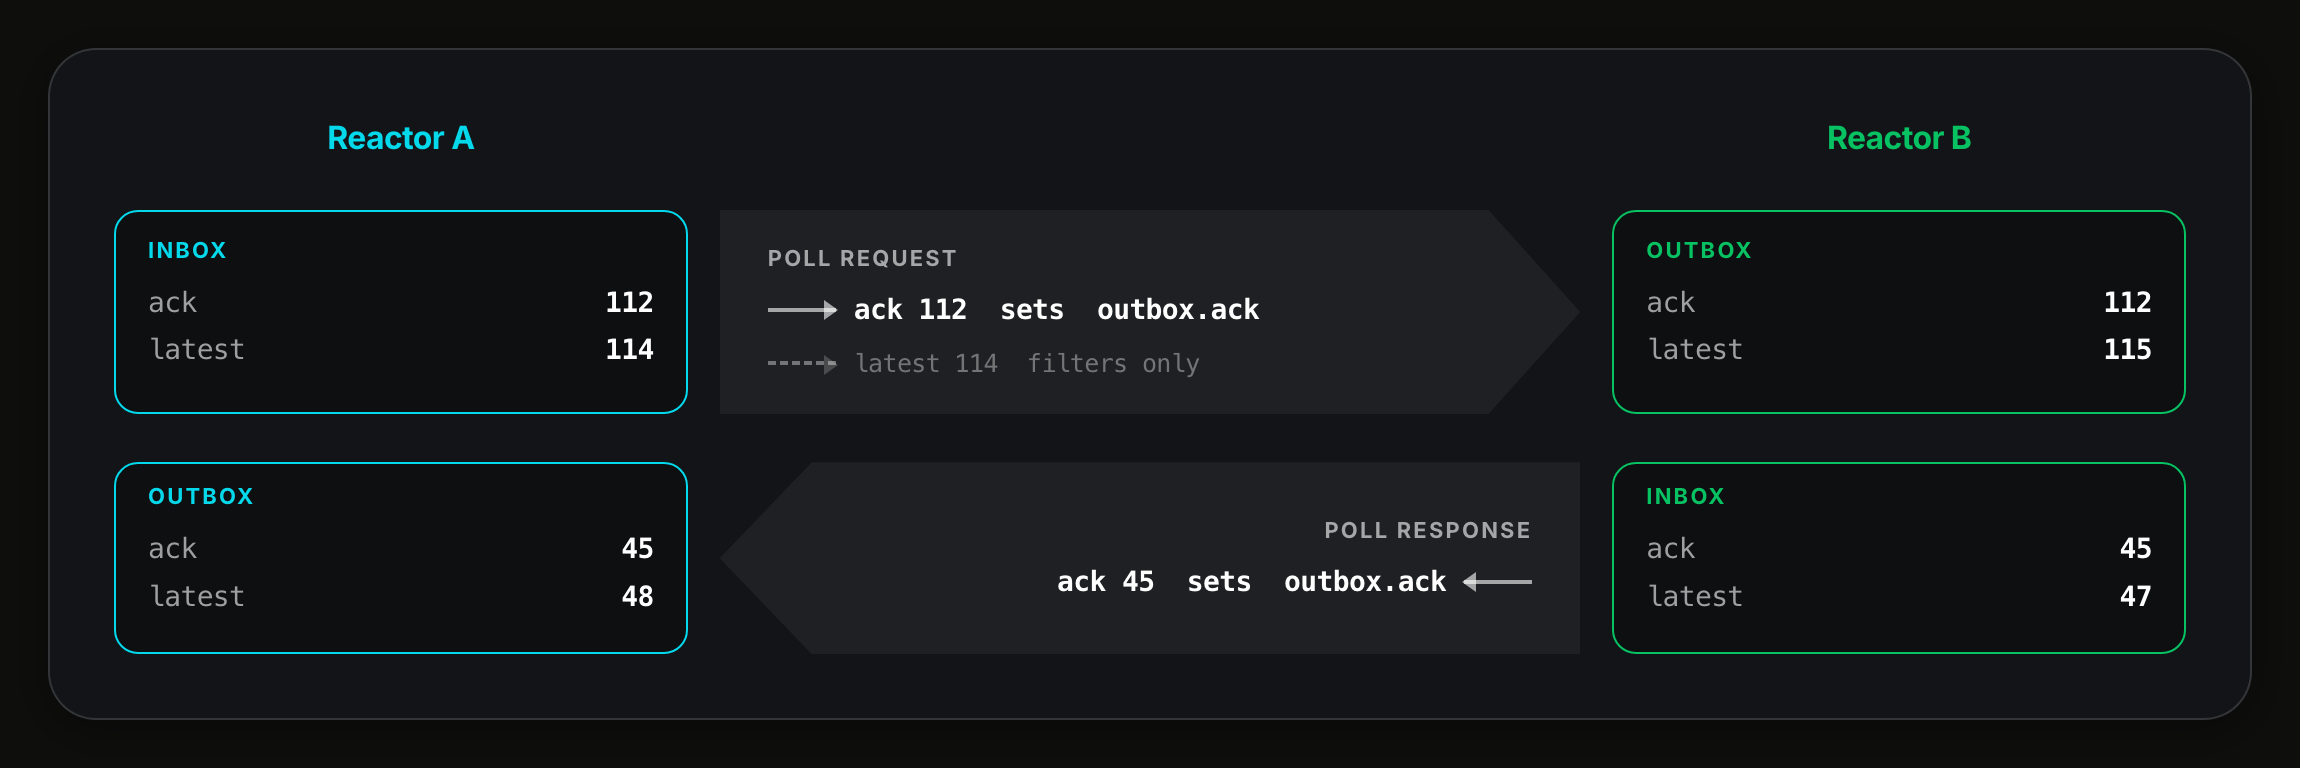
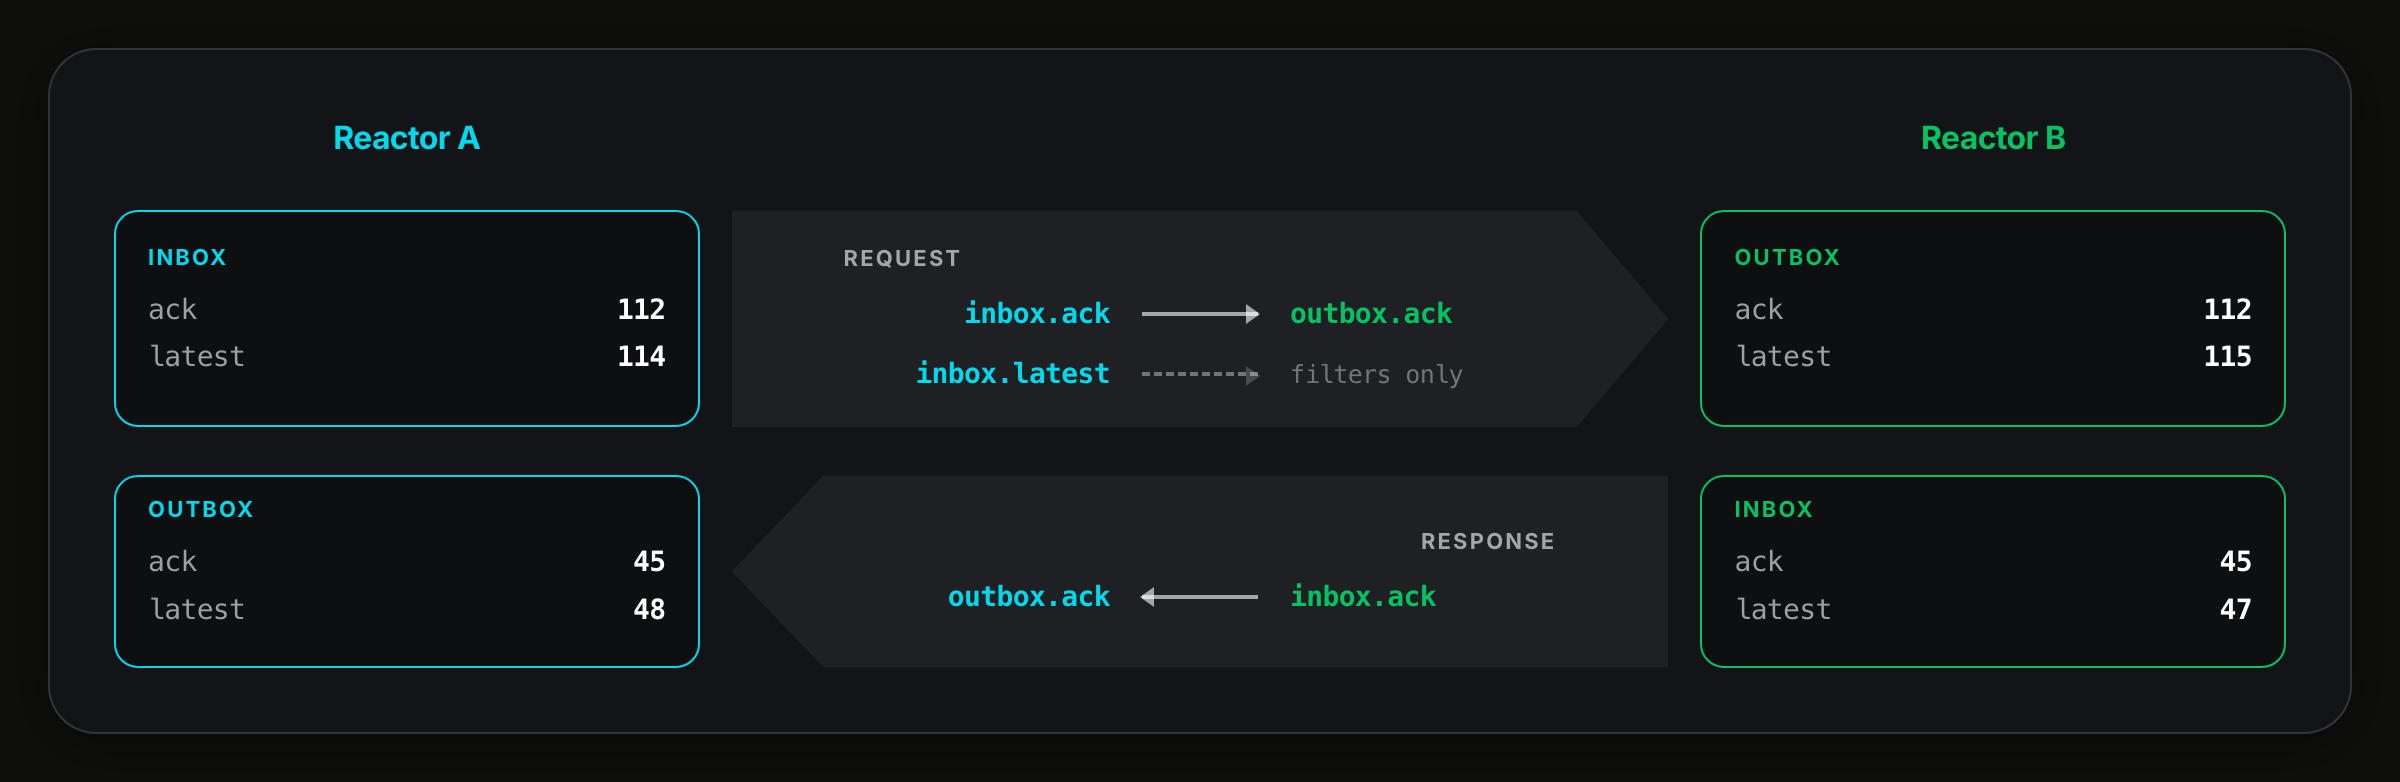
rebuild: poll slide with aligned, value-free sub-arrows

diff --git a/diagrams/pages/poll-piggyback-acks.html b/diagrams/pages/poll-piggyback-acks.html
@@ -9,23 +9,25 @@
   <link rel="stylesheet" href="../css/base.css">
   <link rel="stylesheet" href="../css/components.css">
   <style>
-    /* A on the left, B on the right. A's inbox sits top-left and B's outbox top-right; A's
-       outbox bottom-left and B's inbox bottom-right. That pairing puts each mailbox opposite
-       the one it sets, so both crossings are horizontal.
+    /* A on the left, B on the right. A's inbox faces B's outbox, A's outbox faces B's inbox,
+       so each mailbox sits opposite the one it sets and both crossings are horizontal.
 
-       Between them, one big arrow per message, pointing the way that message travels — right
-       for the request, left for the response. The cursors it carries ride inside it, as
-       small arrows pointing the same way. Nothing else on the slide moves.
+       Between them one big arrow per message, shaped to point the way it travels. The
+       cursors it carries ride inside as sub-arrows naming the mapping. Values live in the
+       mailboxes only — the sub-arrows state the rule, the boxes hold the numbers.
 
-       Colour is reactor identity, as everywhere else: A cyan, B green. The envelopes and the
-       cursor values are neutral. */
+       Both envelopes use the same 56px padding on both sides, so their inner grids are
+       identical and all three sub-arrows sit in one vertical column. 56 clears the 46px
+       clip-path point on whichever side it falls.
+
+       Colour is reactor identity: A cyan, B green, everywhere. */
     .frame { max-width: 1200px; }
     .card { height: auto; }
     .card-body { flex: none; }
 
     .wrap {
       display: grid;
-      grid-template-columns: 1fr 1.5fr 1fr;
+      grid-template-columns: 1fr 1.6fr 1fr;
       column-gap: var(--space-md);
       row-gap: var(--space-lg);
       align-items: stretch;
@@ -35,7 +37,6 @@
     .who.a { grid-column: 1; color: var(--accent-cyan); }
     .who.b { grid-column: 3; color: var(--accent-green); }
 
-    /* Mailboxes */
     .mb {
       border: 1px solid;
       border-radius: var(--radius-md);
@@ -67,26 +68,17 @@
     .val .k { color: var(--text-secondary); }
     .val .v { color: var(--text-primary); font-weight: var(--font-weight-bold); }
 
-    /* The message itself, shaped as one big arrow in its direction of travel */
     .envelope {
       grid-column: 2;
       background: rgba(255, 255, 255, 0.05);
       display: flex;
       flex-direction: column;
       justify-content: center;
-      gap: 7px;
-      padding: var(--space-md) 0;
+      gap: 9px;
+      padding: var(--space-md) 56px;
     }
-    .envelope.to-b {
-      clip-path: polygon(0 0, calc(100% - 46px) 0, 100% 50%, calc(100% - 46px) 100%, 0 100%);
-      padding-left: var(--space-lg);
-      padding-right: 56px;
-    }
-    .envelope.to-a {
-      clip-path: polygon(46px 0, 100% 0, 100% 100%, 46px 100%, 0 50%);
-      padding-left: 56px;
-      padding-right: var(--space-lg);
-    }
+    .envelope.to-b { clip-path: polygon(0 0, calc(100% - 46px) 0, 100% 50%, calc(100% - 46px) 100%, 0 100%); }
+    .envelope.to-a { clip-path: polygon(46px 0, 100% 0, 100% 100%, 46px 100%, 0 50%); }
     .env-name {
       font-size: 11px;
       font-weight: var(--font-weight-bold);
@@ -94,24 +86,25 @@
       text-transform: uppercase;
       color: var(--text-secondary);
     }
-    /* each cursor coloured to the reactor that owns it */
-    .cur { font-weight: var(--font-weight-bold); }
-    .cur.a { color: var(--accent-cyan); }
-    .cur.b { color: var(--accent-green); }
-    .cur.none { color: var(--text-muted); font-weight: var(--font-weight-medium); }
+    .envelope.to-a .env-name { text-align: right; }
 
-    /* the cursors riding inside, pointing the way the message goes */
+    /* one fixed 3-track grid, identical in both envelopes, so the arrows form a column */
     .carries {
-      display: flex;
+      display: grid;
+      grid-template-columns: 1fr 58px 1fr;
       align-items: center;
-      gap: 9px;
+      column-gap: var(--space-md);
       font-family: var(--font-mono, 'SF Mono', 'Fira Code', monospace);
       font-size: 14px;
-      font-weight: var(--font-weight-semibold);
-      color: var(--text-primary);
     }
-    .carries.soft { color: var(--text-muted); font-weight: var(--font-weight-medium); font-size: 12.5px; }
-    .mini { position: relative; width: 34px; height: 2px; background: var(--text-secondary); flex: none; }
+    .cur { font-weight: var(--font-weight-bold); white-space: nowrap; }
+    .cur.l { justify-self: end; }
+    .cur.r { justify-self: start; }
+    .cur.a { color: var(--accent-cyan); }
+    .cur.b { color: var(--accent-green); }
+    .cur.none { color: var(--text-muted); font-weight: var(--font-weight-medium); font-size: 12.5px; }
+
+    .mini { position: relative; width: 100%; height: 2px; background: var(--text-secondary); }
     .mini::after {
       content: '';
       position: absolute; top: 50%;
@@ -134,7 +127,6 @@
           <div class="who a">Reactor A</div>
           <div class="who b">Reactor B</div>
 
-          <!-- request: A's inbox cursors go out, and the ack lands on B's outbox -->
           <div class="mb a" style="grid-row: 2; grid-column: 1;">
             <div class="mb-name">inbox</div>
             <div class="val"><span class="k">ack</span><span class="v">112</span></div>
@@ -143,10 +135,10 @@
           <div class="envelope to-b" style="grid-row: 2;">
             <div class="env-name">request</div>
             <div class="carries">
-              <span class="cur a">inbox.ack 112</span><span class="mini"></span><span class="cur b">outbox.ack 112</span>
+              <span class="cur a l">inbox.ack</span><span class="mini"></span><span class="cur b r">outbox.ack</span>
             </div>
-            <div class="carries soft">
-              <span class="cur a">inbox.latest 114</span><span class="mini soft"></span><span class="cur none">filters only</span>
+            <div class="carries">
+              <span class="cur a l">inbox.latest</span><span class="mini soft"></span><span class="cur none r">filters only</span>
             </div>
           </div>
           <div class="mb b" style="grid-row: 2; grid-column: 3;">
@@ -155,7 +147,6 @@
             <div class="val"><span class="k">latest</span><span class="v">115</span></div>
           </div>
 
-          <!-- response: B's inbox ack comes back and lands on A's outbox -->
           <div class="mb a" style="grid-row: 3; grid-column: 1;">
             <div class="mb-name">outbox</div>
             <div class="val"><span class="k">ack</span><span class="v">45</span></div>
@@ -164,7 +155,7 @@
           <div class="envelope to-a" style="grid-row: 3;">
             <div class="env-name">response</div>
             <div class="carries">
-              <span class="cur a">outbox.ack 45</span><span class="mini"></span><span class="cur b">inbox.ack 45</span>
+              <span class="cur a l">outbox.ack</span><span class="mini"></span><span class="cur b r">inbox.ack</span>
             </div>
           </div>
           <div class="mb b" style="grid-row: 3; grid-column: 3;">
